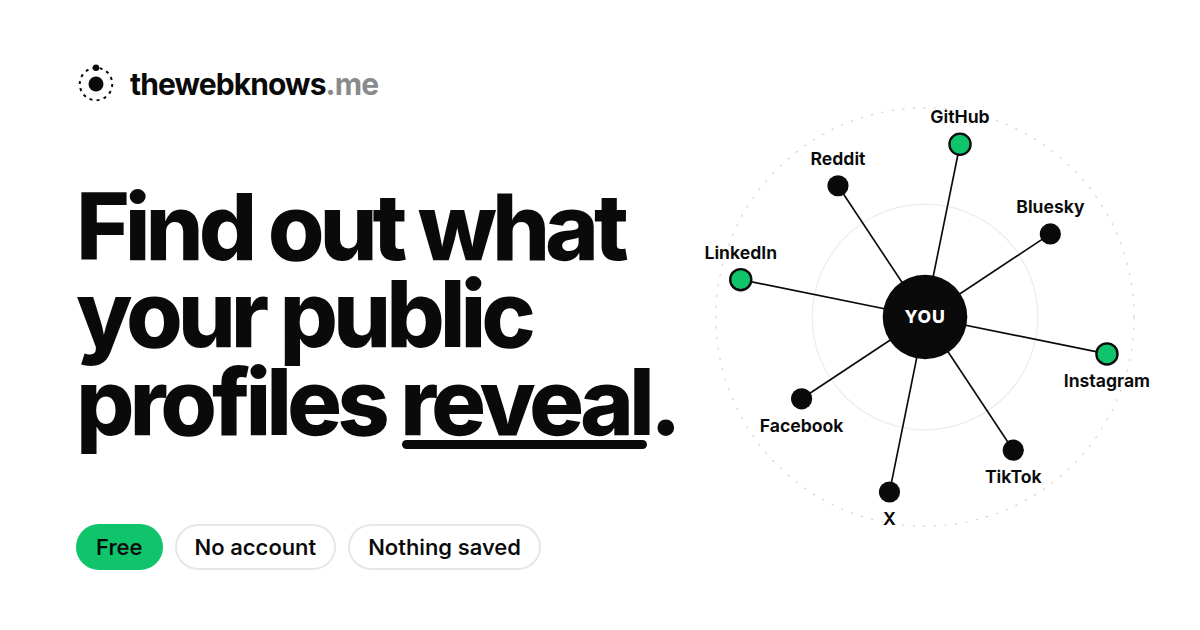
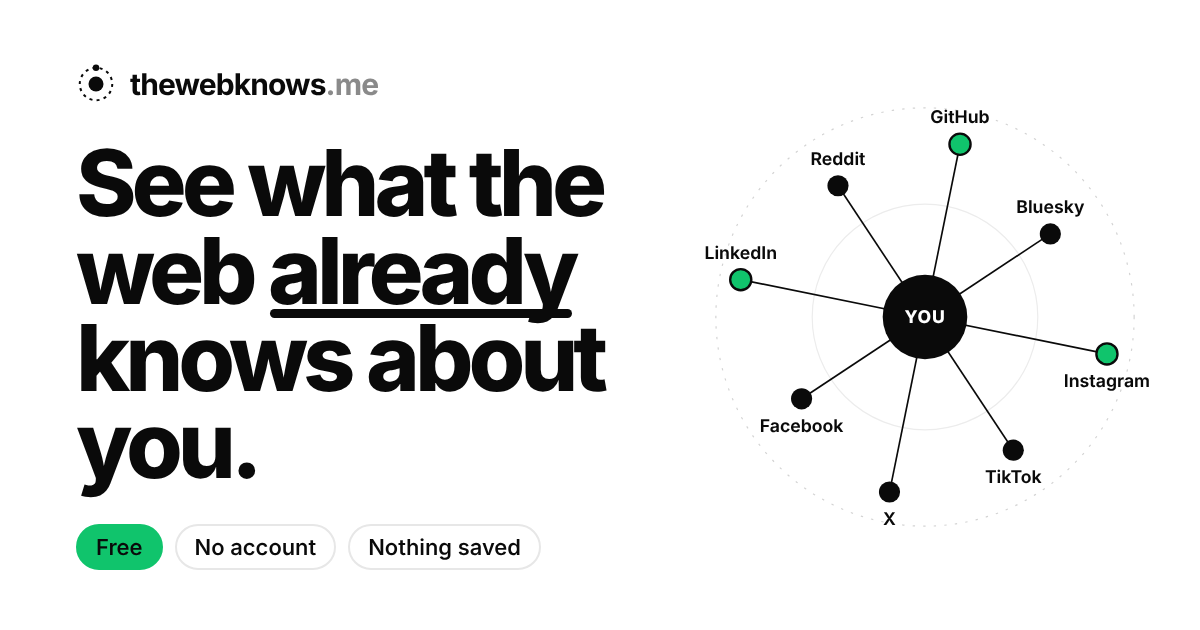
Tagline: 'See what the web already knows about you.'
Replaces 'A free self-check for your digital footprint' in the footer,
Open Graph and Twitter descriptions, page title, meta description,
JSON-LD, package.json and README. Regenerates the link-preview image
with the new headline.

diff --git a/index.html b/index.html
@@ -8,7 +8,7 @@
     <meta name="color-scheme" content="light dark" />
     <meta name="theme-color" content="#ffffff" media="(prefers-color-scheme: light)" />
     <meta name="theme-color" content="#000000" media="(prefers-color-scheme: dark)" />
-    <meta name="description" content="See what any website knows about you, then check what your public profiles reveal. Free. No account. Nothing saved. Made by Vaughn Valle." />
+    <meta name="description" content="See what the web already knows about you: your location, device, browser and public profiles. Free. No account. Nothing saved. Made by Vaughn Valle." />
     <meta name="author" content="Vaughn Valle" />
     <meta name="creator" content="Vaughn Valle" />
     <link rel="author" href="https://github.com/VaughnValle" />
@@ -19,24 +19,24 @@
     <meta property="og:locale" content="en_US" />
     <meta property="og:url" content="https://thewebknows.me/" />
     <meta property="og:title" content="The Web Knows Me" />
-    <meta property="og:description" content="A free self-check for your digital footprint" />
+    <meta property="og:description" content="See what the web already knows about you." />
     <meta property="og:image" content="https://thewebknows.me/og-image.png" />
     <meta property="og:image:secure_url" content="https://thewebknows.me/og-image.png" />
     <meta property="og:image:type" content="image/png" />
     <meta property="og:image:width" content="1200" />
     <meta property="og:image:height" content="630" />
-    <meta property="og:image:alt" content="Find out what your public profiles reveal. thewebknows.me" />
+    <meta property="og:image:alt" content="See what the web already knows about you. thewebknows.me" />
     <meta name="twitter:card" content="summary_large_image" />
     <meta name="twitter:title" content="The Web Knows Me" />
-    <meta name="twitter:description" content="A free self-check for your digital footprint" />
+    <meta name="twitter:description" content="See what the web already knows about you." />
     <meta name="twitter:image" content="https://thewebknows.me/og-image.png" />
-    <meta name="twitter:image:alt" content="Find out what your public profiles reveal. thewebknows.me" />
+    <meta name="twitter:image:alt" content="See what the web already knows about you. thewebknows.me" />
 
     <link rel="canonical" href="https://thewebknows.me/" />
     <link rel="author" type="text/plain" href="/humans.txt" />
     <link rel="icon" href="/favicon.svg" type="image/svg+xml" />
     <link rel="apple-touch-icon" href="/apple-touch-icon.png" />
-    <title>The Web Knows Me · What the web knows about you</title>
+    <title>The Web Knows Me · See what the web already knows about you</title>
     <script type="application/ld+json">
       {
         "@context": "https://schema.org",
@@ -55,7 +55,7 @@
             "@id": "https://thewebknows.me/#site",
             "url": "https://thewebknows.me/",
             "name": "The Web Knows Me",
-            "description": "A free self-check for your digital footprint. See what any website knows about you, then check what your public profiles reveal.",
+            "description": "See what the web already knows about you: your location, device, browser and public profiles. Free. No account. Nothing saved.",
             "author": {
               "@id": "https://thewebknows.me/#vaughn"
             },

diff --git a/src/App.tsx b/src/App.tsx
@@ -35,7 +35,7 @@ export function App({ deviceLoaders }: { deviceLoaders?: DeviceLoaders } = {}) {
       </div>
       <footer className="site-footer">
         <p>
-          <strong>The Web Knows Me</strong> · A free self-check for your digital footprint.
+          <strong>The Web Knows Me</strong> · See what the web already knows about you.
         </p>
         <p>
           Made by <a href="https://github.com/VaughnValle" target="_blank" rel="noopener noreferrer" className="footer-credit">Vaughn Valle</a>. No accounts. No cookies. No analytics.

diff --git a/design/og-image.html b/design/og-image.html
@@ -59,7 +59,7 @@
       </svg>
       <b style="font-weight:inherit">thewebknows<span>.me</span></b>
     </div>
-    <h1>Find out what your public profiles <span class="reveal">reveal</span>.</h1>
+    <h1>See what the web <span class="reveal">already</span> knows about you.</h1>
     <div class="foot">
       <span class="pill on">Free</span>
       <span class="pill">No account</span>

diff --git a/README.md b/README.md
@@ -1,6 +1,6 @@
 # The Web Knows Me — thewebknows.me
 
-**Find out what your public profiles reveal.** A free, private self-check of your own social profiles. No account, no server, nothing saved.
+**See what the web already knows about you.** Your location, device, browser and public profiles, then what to do about them. No account, no server, nothing saved.
 
 Made by [Vaughn Valle](https://github.com/VaughnValle).
 
